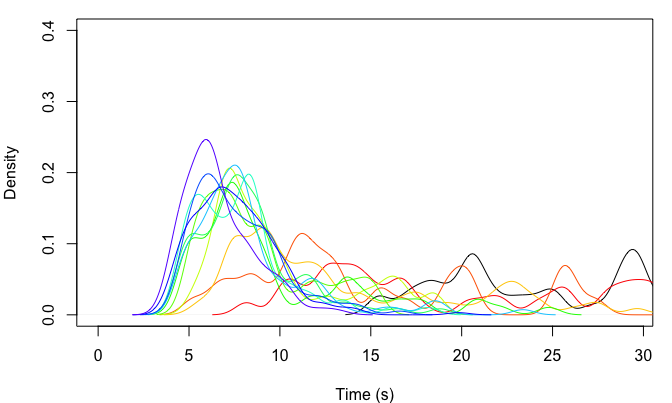
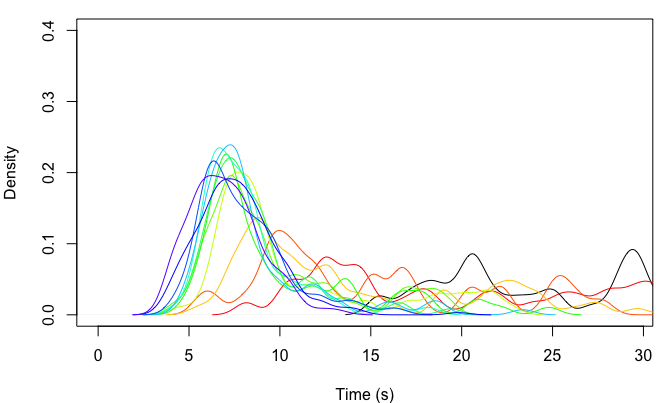
Reverting distance transformation, restricting priors, etc.

Changed region(s): [[0.2188, 0.3573, 0.9375, 0.804], [0.9062, 0.6849, 0.9688, 0.7146], [0.375, 0.7444, 0.4062, 0.7742]]

diff --git a/README.md b/README.md
@@ -101,9 +101,9 @@ beta
 (init_time/n_holds)*seq_ratios
 ```
 
-    ##  [1] 1.3410881 1.6738316 1.8399749 0.9471451 0.4868738 1.2733414 1.1009485
-    ##  [8] 1.5056046 1.2812829 0.5276838 0.6359598 0.1962652 0.7314883 1.2037818
-    ## [15] 1.4770855 1.6936720 0.8822396 1.2475899 0.7959805 0.7323823
+    ##  [1] 0.8663235 1.0316852 0.3996837 0.6682919 0.8531268 0.3107566 1.6109695
+    ##  [8] 1.3270237 0.1902318 0.9461157 1.0656838 0.7622323 0.3475074 0.3846847
+    ## [15] 0.7474412 0.3104971 1.2578201 0.8464915 0.7891963 0.2259564
 
 This `sd_multiplier` value of 0.5 generates a distribution of times per
 hold that is similar to the example distribution in [Reveret et
@@ -138,12 +138,14 @@ normalized version of the following:
 
 *P*(*s**k**i**p**p**i**n**g*) = (1/*d**i**s**t*)<sup>*c**o**n**s**t**r**a**i**n**t*</sup>
 
-The first two holds can never be skipped, because every climber is
-required to start on them. The Euclidean distance for the last hold will
-be the distance between the second-to-last hold and the buzzer. Below is
-a density plot showing the (yet to be normalized) probabilities of
-skipping each hold under `constraint` = {0.5, 1, 2} (blue, black, and
-red, respectively).
+The first hold can never be skipped, because every climber is required
+to start on it The Euclidean distance for the last hold will be the
+distance between the second-to-last hold and the buzzer. `constraint` =
+0 equalizes the probabilities, whereas `constraint` = 2 leads to a 10x
+difference in the probability of innovating holds with the closest
+vs. furthest adjacent holds. Below is a density plot showing the (yet to
+be normalized) probabilities of skipping each hold under `constraint` =
+{0.5, 1, 2} (blue, black, and red, respectively).
 
 ![](README_files/figure-gfm/unnamed-chunk-6-1.png)<!-- -->
 
@@ -282,7 +284,7 @@ n <- unlist(lapply(1:length(years), function(x){nrow(data[which(data$year == yea
 
 Now let’s run the model with an initial population size of 53, a 0.2
 probability of learning from the top 20 climbers, a 0.2 probability of
-innovation, and `constraint` = 2. The `improve_rate_m` of athletic
+innovation, and `constraint` = 1. The `improve_rate_m` of athletic
 improvement will be 2, the `improve_rate_sd` will be 0.2, and the `min`
 improvement possible will be 0.4. `bw` and `ylim`, control the density
 bandwidth and y-axis limit in the plot, respectively. `sum_stats`
@@ -298,7 +300,7 @@ start <- Sys.time()
 #run model
 output <- SpeedClimbingABM(n = n, years = years, pop_data = pop_data, grid = grid,
                            n_holds = 20, beta_true_prob = 1, learn_prob = 0.2, n_top = 20,
-                           innov_prob = 0.2, constraint = 2, improve_rate_m = 2, improve_rate_sd = 0.2, improve_min = 0.4,
+                           innov_prob = 0.2, constraint = 1, improve_rate_m = 2, improve_rate_sd = 0.2, improve_min = 0.4,
                            sum_stats = TRUE, plot = TRUE, bw = 0.6, ylim = 0.4)
 ```
 
@@ -309,7 +311,7 @@ output <- SpeedClimbingABM(n = n, years = years, pop_data = pop_data, grid = gri
 Sys.time() - start
 ```
 
-    ## Time difference of 0.222872 secs
+    ## Time difference of 0.3552511 secs
 
 In the above plot, each distribution (from right to left) is the
 distribution of `current_records` for climbers in the population in each
@@ -322,32 +324,32 @@ output
 
     ##              0%       10%       20%       30%       40%       50%       60%
     ##  [1,] 15.400000 18.256000 20.408000 21.188000 24.432000 28.640000 29.712000
-    ##  [2,]  8.080000 10.970601 12.238180 13.486824 16.354903 20.672619 24.314000
-    ##  [3,]  5.379413  7.188737  9.213149 10.202282 11.874527 12.745415 13.939666
-    ##  [4,]  5.182645  7.525000  8.506954  8.982154  9.690000 11.390000 12.370000
-    ##  [5,]  4.829812  6.773774  7.209507  7.502846  8.000270  8.495000  8.756732
-    ##  [6,]  4.668466  6.195000  6.843343  7.258000  7.620000  7.968129  8.758111
-    ##  [7,]  4.790386  6.388059  6.837891  7.181000  7.563798  7.800000  8.846330
-    ##  [8,]  5.091298  6.061813  6.430000  6.982200  7.550516  7.753000  8.554000
-    ##  [9,]  5.068381  6.138628  6.327384  6.681232  7.036209  7.410000  7.918714
-    ## [10,]  4.642779  5.630434  6.356000  6.799000  7.224000  7.605000  7.950000
-    ## [11,]  4.505981  5.406971  6.009795  6.484111  6.869982  7.401279  8.128000
-    ## [12,]  4.419796  5.461823  6.240868  6.696000  7.318000  7.691094  8.113927
-    ## [13,]  4.264803  5.119903  5.735800  6.199191  6.744700  7.158822  7.643400
+    ##  [2,]  8.080000 10.951000 12.549569 13.851195 16.418657 19.633757 25.160000
+    ##  [3,]  5.724069  7.273228  8.621227 10.249998 11.240000 13.219168 15.046140
+    ##  [4,]  5.291820  7.296886  8.276121  9.045000  9.690000 11.390000 12.410000
+    ##  [5,]  4.828431  6.569069  7.022928  7.325000  7.820000  8.475000  8.690000
+    ##  [6,]  4.578932  6.090390  6.467761  7.050147  7.520000  7.947431  8.610000
+    ##  [7,]  5.027576  5.968948  6.440297  7.089000  7.424000  7.805504  8.532677
+    ##  [8,]  4.995140  5.826290  6.381385  6.932617  7.312000  7.741000  8.554000
+    ##  [9,]  4.810681  5.820714  6.235133  6.646000  7.102216  7.593189  7.904107
+    ## [10,]  4.702173  5.803929  6.478000  6.806599  7.230000  7.654218  8.006178
+    ## [11,]  4.631086  5.767669  6.256013  6.605912  6.949718  7.442200  8.181147
+    ## [12,]  4.620815  5.920000  6.402000  6.730837  7.285829  7.660000  8.181159
+    ## [13,]  4.614992  5.482803  6.050427  6.594244  6.958668  7.364674  7.873232
     ##             70%       80%      90%     100%
     ##  [1,] 32.472000 39.548000 43.25400 62.06000
-    ##  [2,] 28.862000 31.218000 33.57986 48.08000
-    ##  [3,] 17.466524 20.992011 26.70123 33.23000
-    ##  [4,] 15.940227 21.570000 24.23000 31.90000
-    ##  [5,] 10.483111 14.836487 18.47500 25.06290
-    ##  [6,]  9.939494 11.530000 14.93640 23.80832
-    ##  [7,] 10.934367 13.610000 17.26600 24.79000
-    ##  [8,]  8.996000  9.802295 11.81320 24.51685
-    ##  [9,]  8.410000  9.415867 11.26200 18.15000
-    ## [10,]  8.654000 10.150000 12.54600 23.37000
-    ## [11,]  8.635000  9.544000 10.86386 16.59000
-    ## [12,]  8.760000  9.239800 10.44400 19.83000
-    ## [13,]  8.091800  8.786233  9.74960 14.01663
+    ##  [2,] 28.862000 30.598000 33.13300 48.08000
+    ##  [3,] 17.504887 23.894206 26.11259 33.23000
+    ##  [4,] 16.979656 22.471647 24.23000 31.90000
+    ##  [5,] 10.952123 14.900000 18.10706 21.56951
+    ##  [6,] 10.550316 11.824156 16.20297 20.45811
+    ##  [7,] 10.764312 13.546000 17.26600 24.79000
+    ##  [8,]  8.974000  9.778831 11.86200 19.92865
+    ##  [9,]  8.324000  9.421237 11.26200 18.15000
+    ## [10,]  8.604000 10.150000 12.05100 23.37000
+    ## [11,]  8.689236  9.770639 11.00600 16.59000
+    ## [12,]  8.772000  9.300400 10.44400 19.83000
+    ## [13,]  8.343955  8.880738 10.04744 14.02597
 
 Let’s do another run of the model, but let’s add interaction effects so
 that climbers with slower times are more likely to learn
@@ -363,7 +365,7 @@ start <- Sys.time()
 #run model
 output <- SpeedClimbingABM(n = n, years = years, pop_data = pop_data, grid = grid,
                            n_holds = 20, beta_true_prob = 1, learn_prob = 0.2, n_top = 20,
-                           innov_prob = 0.2, constraint = 2, improve_rate_m = 2, improve_rate_sd = 0.2, improve_min = 0.4,
+                           innov_prob = 0.2, constraint = 1, improve_rate_m = 2, improve_rate_sd = 0.2, improve_min = 0.4,
                            learn_x_times = 1, innov_x_times = -1, learn_x_pop = 1, innov_x_pop = 1,
                            sum_stats = TRUE, plot = TRUE, bw = 0.6, ylim = 0.4)
 ```
@@ -375,7 +377,7 @@ output <- SpeedClimbingABM(n = n, years = years, pop_data = pop_data, grid = gri
 Sys.time() - start
 ```
 
-    ## Time difference of 0.266813 secs
+    ## Time difference of 0.4214411 secs
 
 ``` r
 output
@@ -383,29 +385,29 @@ output
 
     ##              0%       10%       20%       30%       40%       50%       60%
     ##  [1,] 15.400000 18.256000 20.408000 21.188000 24.432000 28.640000 29.712000
-    ##  [2,]  8.080000 10.987142 12.946643 14.194191 16.412899 20.810919 25.378000
-    ##  [3,]  5.174844  7.532564  9.373042 10.892661 11.630945 12.650603 14.945497
-    ##  [4,]  5.421619  7.308746  8.174333  9.045000  9.710990 11.390000 12.410000
-    ##  [5,]  5.220905  6.537623  7.061955  7.325000  7.820000  8.520000  9.188215
-    ##  [6,]  5.014731  5.418833  6.162348  6.666148  7.256000  7.690000  8.819247
-    ##  [7,]  4.540514  5.208982  6.308512  6.980000  7.313723  7.812868  8.664763
-    ##  [8,]  4.390889  5.084521  6.002863  6.928800  7.412009  7.741000  8.398352
-    ##  [9,]  4.501665  5.036194  5.626756  5.951686  6.773039  7.600811  8.220000
-    ## [10,]  4.496466  5.069759  5.991568  6.605000  7.224000  7.625000  7.994668
-    ## [11,]  4.097029  5.025533  5.721323  6.083507  6.562987  7.218126  7.771216
-    ## [12,]  3.712273  4.800847  5.562263  6.314000  6.680000  7.280000  7.840000
-    ## [13,]  3.665448  4.486276  5.025545  5.569550  5.941799  6.250691  6.576176
+    ##  [2,]  8.080000 11.204119 12.480000 14.173174 16.848000 21.267532 25.378000
+    ##  [3,]  5.672369  8.982705  9.717226 10.746943 11.838823 14.009765 16.283206
+    ##  [4,]  5.494154  7.790000  8.505359  9.130000 10.328315 11.505000 12.816501
+    ##  [5,]  4.472480  6.772648  7.230000  7.719526  8.166333  8.590000  9.317773
+    ##  [6,]  4.294320  5.997802  6.811376  7.258000  7.520000  8.312918  8.829000
+    ##  [7,]  4.791437  6.226965  6.689193  7.098220  7.296322  7.800000  8.780000
+    ##  [8,]  4.368213  6.015159  6.622849  7.007596  7.462000  7.741000  8.473214
+    ##  [9,]  4.319913  5.934286  6.265114  6.646000  7.092659  7.465291  8.078863
+    ## [10,]  4.693393  5.904901  6.403796  6.671904  7.224000  7.605000  7.844000
+    ## [11,]  4.227967  5.693922  6.019117  6.467862  6.762540  7.510000  8.124955
+    ## [12,]  3.742245  5.084202  5.920000  6.488492  6.890000  7.504000  7.966000
+    ## [13,]  3.675545  4.513036  5.346854  5.784922  6.331800  6.837637  7.352410
     ##             70%       80%      90%     100%
     ##  [1,] 32.472000 39.548000 43.25400 62.06000
-    ##  [2,] 28.862000 30.598000 33.01574 48.08000
-    ##  [3,] 19.215290 20.402669 25.64417 33.23000
-    ##  [4,] 16.016298 20.530000 23.29000 31.90000
-    ##  [5,] 10.116920 13.312550 16.12117 18.52000
-    ##  [6,]  9.238217 11.530000 13.60085 15.29905
-    ##  [7,]  9.575216 13.546000 16.49700 24.79000
-    ##  [8,]  8.888400  9.498400 11.79280 18.80665
-    ##  [9,]  8.502000  8.790256 11.01986 18.15000
-    ## [10,]  8.604000 10.018000 12.05100 23.37000
-    ## [11,]  8.587000  9.504604 10.68966 16.59000
-    ## [12,]  8.496400  9.206000 10.28300 19.83000
-    ## [13,]  7.266805  8.109200  9.38600 13.30600
+    ##  [2,] 28.557000 30.598000 33.13300 48.08000
+    ##  [3,] 17.860299 22.135771 25.52600 33.23000
+    ##  [4,] 15.897763 21.570000 23.69500 31.90000
+    ##  [5,] 11.300717 14.545354 19.42523 22.69265
+    ##  [6,] 10.242858 12.247586 16.74478 19.24696
+    ##  [7,] 10.772664 13.546000 17.30500 24.79000
+    ##  [8,]  8.996000  9.734000 11.86200 19.38308
+    ##  [9,]  8.418375  9.370154 11.38325 18.15000
+    ## [10,]  8.500907 10.018000 12.54600 23.37000
+    ## [11,]  8.822877  9.572000 11.00600 16.59000
+    ## [12,]  8.530000  9.206000 10.32436 19.83000
+    ## [13,]  7.911299  8.438150  9.66340 13.30600
